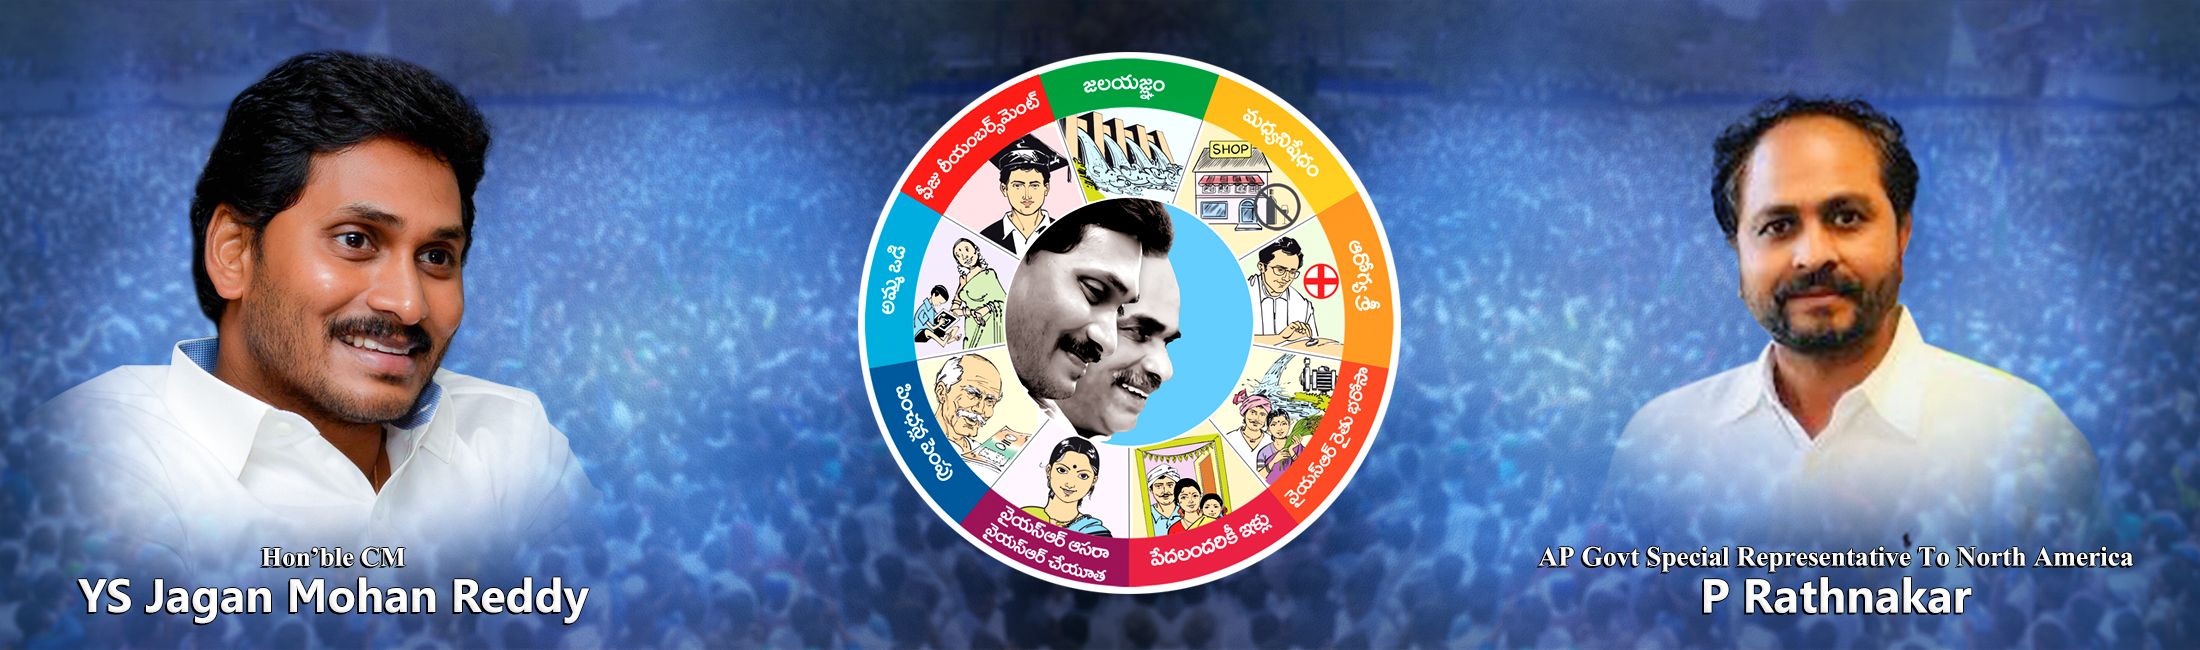
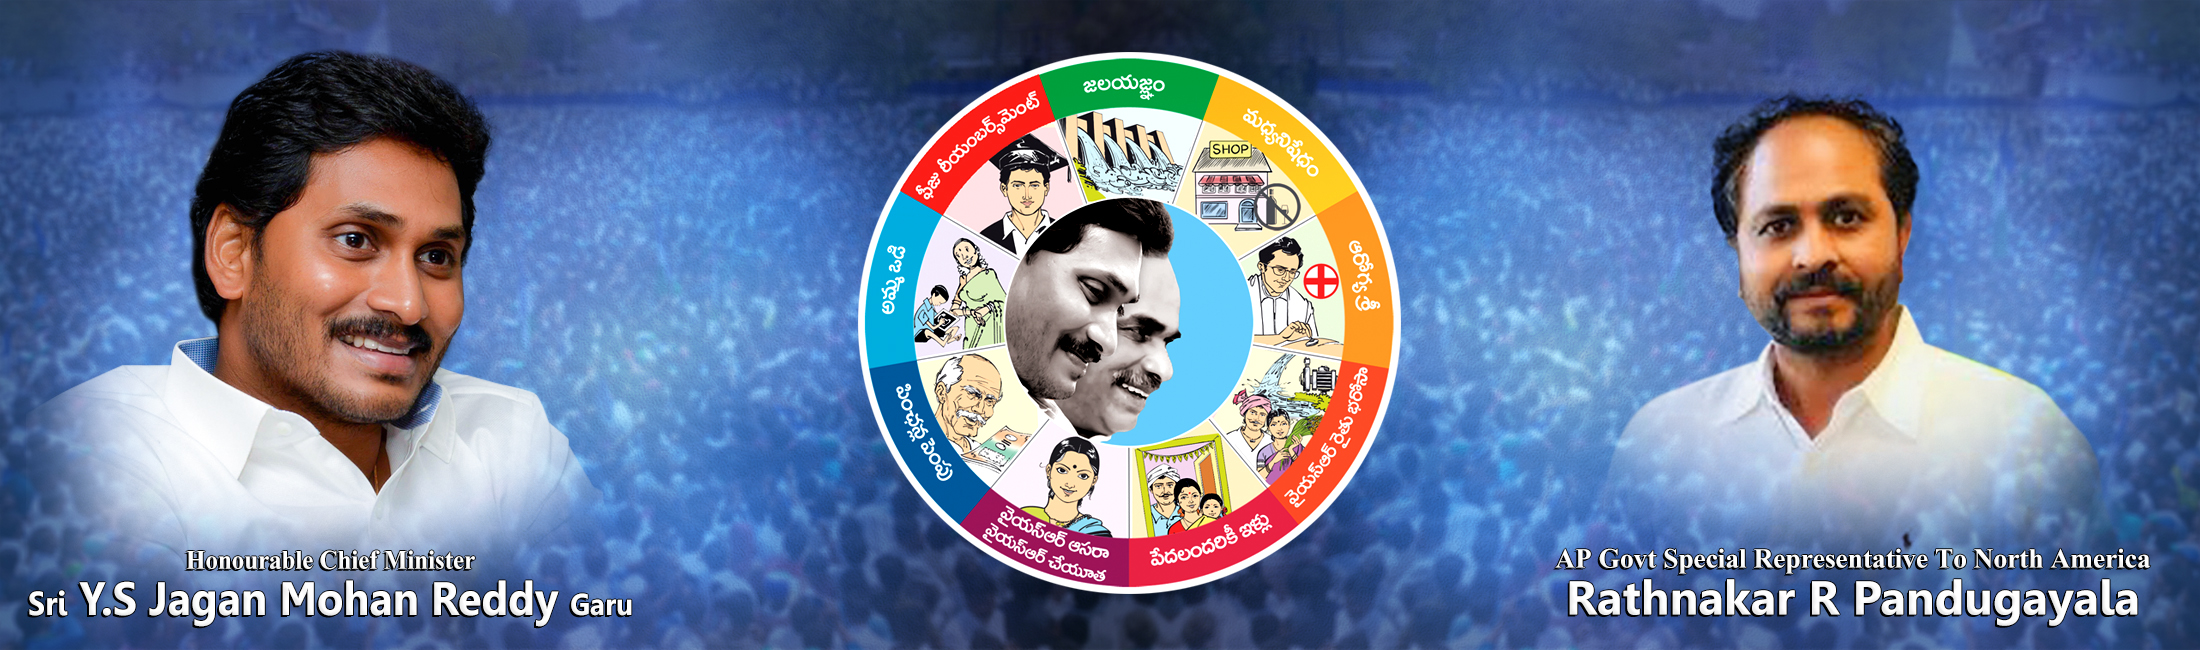
Minor changes

Changed region(s): [[0.68, 0.8308, 0.9891, 0.9846], [0.0, 0.8308, 0.3091, 0.9538]]

diff --git a/index.html b/index.html
@@ -56,6 +56,7 @@
         overflow: auto;
       }
     }
+    .view{height:106px !important;}
   </style>
 </head>
 
@@ -73,8 +74,8 @@
               <a href="#"><i class="fa fa-skype"></i></a>
             </div>
             <div class="col-lg-6 topright">
-              <a href="#"><i class="fa fa-phone"> <span>(232) 235 23 55</span></i></a>
-              <a href="#"><i class="fa fa-envelope last"> <span> example@example.com</span></i></a>
+              <a href="#"><i class="fa fa-phone"> <span>+18607784210</span></i></a>
+              <a href="#"><i class="fa fa-envelope last"> <span> Kadapa.Rathnakar@gmail.com</span></i></a>
             </div>
           </div>
         </div>
@@ -212,7 +213,9 @@
     <div class="main-boxes">
       <div class="one-box1">
         <div class="one-box1-inner">
-          <h3>నవరత్నాలు గురించి మరింత సమాచారం కోసం <a href="#">Click Here</a> </h3>
+          <h3>నవరత్నాలు గురించి మరింత సమాచారం కోసం <a href="#"><br>
+            Click Here
+          </a> </h3>
         </div>
       </div>
       <div class="one-box2">
@@ -461,7 +464,7 @@
             </div>
           </div>
           <div class="wrapper100percent">
-            <img src="images/blogthumb2.jpg" alt="">
+            <img src="images/blog/housing.jpg" alt="">
             <p>fih;df</p>
             <p>sd;fhs</p>
             <p>esdjdf</p>
@@ -526,13 +529,13 @@
           <div class="flickity-slider">
             <div class="col-lg-12 onelist" style="position: absolute; left: 0%;">
               <!-- <h2>Candidates</h2> -->
-              <h3>YS Jagan Cites Strong US Partnership As Key Element Of AP’s</h3>
+              <h3>Honourable chief minister. Sri Y.S Jagan Mohan Reddy garu Cites Strong US Partnership As Key Element Of AP’s</h3>
               <br>
               <p>Rob Schroder, Senior Vice President, International Affairs,
                 US Chamber of Commerce was upbeat on Andhra Pradesh’s promise of rapid economic growth and appreciated
-                Chief Minister Jagan Mohan Reddy’s impressive mandate for unlocking the expansive growth potential of
+                Honourable chief minister. Sri Y.S Jagan Mohan Reddy’s impressive mandate for unlocking the expansive growth potential of
                 Andhra Pradesh. With a strong mandate from the people of Andhra Pradesh,
-                Chief Minister Jagan Mohan Reddy will have an opportunity to usher in a era of inclusive growth, rapid
+                Honourable chief minister. Sri Y.S Jagan Mohan Reddy garu will have an opportunity to usher in a era of inclusive growth, rapid
                 development and strategic leadership for Andhra Pradesh.
               </p>
               <br>
@@ -806,15 +809,15 @@
     <div class="row">
       <div class="col-md-2">
         <figure class="view view-first">
-          <img src="images/gallery/gal1.jpg" alt="">
+          <img src="images/gallery/g1.jpg" alt="">
           <figcaption class="mask">
             <div class="maskinner">
               <a href="images/gallery/g1.jpg" class="imagepopup cboxElement">
                 <i class="fa fa-search-plus"></i>
               </a>
-              <a href="#">
+              <!-- <a href="#">
                 <i class="fa fa-external-link"></i>
-              </a>
+              </a> -->
             </div>
           </figcaption>
         </figure>
@@ -827,39 +830,39 @@
               <a href="images/gallery/g2.jpg" class="imagepopup cboxElement">
                 <i class="fa fa-search-plus"></i>
               </a>
-              <a href="#">
+              <!-- <a href="#">
                 <i class="fa fa-external-link"></i>
-              </a>
+              </a> -->
             </div>
           </figcaption>
         </figure>
       </div>
       <div class="col-md-2">
         <figure class="view view-first">
-          <img src="images/gallery/gal3.jpg" alt="">
+          <img src="images/gallery/g3.jpeg" alt="">
           <figcaption class="mask">
             <div class="maskinner">
-              <a href="images/gallery/g3.jpg" class="imagepopup cboxElement">
+              <a href="images/gallery/g3.jpeg" class="imagepopup cboxElement">
                 <i class="fa fa-search-plus"></i>
               </a>
-              <a href="#">
+              <!-- <a href="#">
                 <i class="fa fa-external-link"></i>
-              </a>
+              </a> -->
             </div>
           </figcaption>
         </figure>
       </div>
       <div class="col-md-2">
         <figure class="view view-first">
-          <img src="images/gallery/gal4.jpg" alt="">
+          <img src="images/gallery/g4.jpeg" alt="">
           <figcaption class="mask">
             <div class="maskinner">
-              <a href="images/gallery/g4.jpg" class="imagepopup cboxElement">
+              <a href="images/gallery/g4.jpeg" class="imagepopup cboxElement">
                 <i class="fa fa-search-plus"></i>
               </a>
-              <a href="#">
+              <!-- <a href="#">
                 <i class="fa fa-external-link"></i>
-              </a>
+              </a> -->
             </div>
           </figcaption>
         </figure>
@@ -872,24 +875,24 @@
               <a href="images/gallery/g5.jpg" class="imagepopup cboxElement">
                 <i class="fa fa-search-plus"></i>
               </a>
-              <a href="#l">
+              <!-- <a href="#l">
                 <i class="fa fa-external-link"></i>
-              </a>
+              </a> -->
             </div>
           </figcaption>
         </figure>
       </div>
       <div class="col-md-2">
         <figure class="view view-first">
-          <img src="images/gallery/gal6.jpg" alt="">
+          <img src="images/gallery/g6.jpeg" alt="">
           <figcaption class="mask">
             <div class="maskinner">
-              <a href="images/gallery/g6.jpg" class="imagepopup cboxElement">
+              <a href="images/gallery/g6.jpeg" class="imagepopup cboxElement">
                 <i class="fa fa-search-plus"></i>
               </a>
-              <a href="#">
+              <!-- <a href="#">
                 <i class="fa fa-external-link"></i>
-              </a>
+              </a> -->
             </div>
           </figcaption>
         </figure>
@@ -906,39 +909,39 @@
               <a href="images/gallery/g7.jpg" class="imagepopup cboxElement">
                 <i class="fa fa-search-plus"></i>
               </a>
-              <a href="#">
+              <!-- <a href="#">
                 <i class="fa fa-external-link"></i>
-              </a>
+              </a> -->
             </div>
           </figcaption>
         </figure>
       </div>
       <div class="col-md-2">
         <figure class="view view-first">
-          <img src="images/gallery/gal8.jpg" alt="">
+          <img src="images/gallery/g11.jpeg" alt="">
           <figcaption class="mask">
             <div class="maskinner">
-              <a href="images/gallery/g8.jpg" class="imagepopup cboxElement">
+              <a href="images/gallery/g11.jpeg" class="imagepopup cboxElement">
                 <i class="fa fa-search-plus"></i>
               </a>
-              <a href="#">
+              <!-- <a href="#">
                 <i class="fa fa-external-link"></i>
-              </a>
+              </a> -->
             </div>
           </figcaption>
         </figure>
       </div>
       <div class="col-md-2">
         <figure class=" view view-first">
-          <img src="images/gallery/gal9.jpg" alt="">
+          <img src="images/gallery/g8.jpg" alt="">
           <figcaption class="mask">
             <div class="maskinner">
-              <a href="images/gallery/g9.jpg" class="imagepopup cboxElement">
+              <a href="images/gallery/g8.jpg" class="imagepopup cboxElement">
                 <i class="fa fa-search-plus"></i>
               </a>
-              <a href="index.html">
+              <!-- <a href="index.html">
                 <i class="fa fa-external-link"></i>
-              </a>
+              </a> -->
             </div>
           </figcaption>
         </figure>
@@ -951,24 +954,24 @@
               <a href="images/gallery/g10.jpg" class="imagepopup cboxElement">
                 <i class="fa fa-search-plus"></i>
               </a>
-              <a href="#">
+              <!-- <a href="#">
                 <i class="fa fa-external-link"></i>
-              </a>
+              </a> -->
             </div>
           </figcaption>
         </figure>
       </div>
       <div class="col-md-2">
         <figure class=" view view-first">
-          <img src="images/gallery/gal11.jpg" alt="">
+          <img src="images/gallery/g13.jpeg" alt="">
           <figcaption class="mask">
             <div class="maskinner">
-              <a href="images/gallery/g11.jpg" class="imagepopup cboxElement">
+              <a href="images/gallery/g13.jpeg" class="imagepopup cboxElement">
                 <i class="fa fa-search-plus"></i>
               </a>
-              <a href="#l">
+              <!-- <a href="#l">
                 <i class="fa fa-external-link"></i>
-              </a>
+              </a> -->
             </div>
           </figcaption>
         </figure>
@@ -981,9 +984,9 @@
               <a href="images/gallery/g12.jpg" class="imagepopup cboxElement">
                 <i class="fa fa-search-plus"></i>
               </a>
-              <a href="#">
+              <!-- <a href="#">
                 <i class="fa fa-external-link"></i>
-              </a>
+              </a> -->
             </div>
           </figcaption>
         </figure>
@@ -1029,11 +1032,11 @@
                   <div class="testimonial">
                     <img src="images/rtnkar.jpg" alt="">
                     <i class="fa fa-quote-left"></i>
-                    <h4> My sincere thanks to our C.M Sri Y.S. Jagan Mohan reddy garu, No words to express My Love on
+                    <h4> My sincere thanks to our Honourable Chief Minister. Sri Y.S Jagan Mohan Reddy garu, No words to express My Love on
                       you ,No matter what, Till my Final Breath I wil be your Supporter and I'm proud of it! Once Again
                       ...
                     </h4>
-                    <h6> Rathnakar Pandugayala, &nbsp; Andhra Pradesh Government special representative to North America
+                    <h6> Rathnakar R Pandugayala, &nbsp; Andhra Pradesh Government special representative to North America
                     </h6>
                   </div>
                 </div>
@@ -1159,9 +1162,7 @@
         <div class="col-md-4">
           <h5>about</h5>
           <p>
-            Government of Andhra Pradesh is the government for the Indian state of Andhra Pradesh.
-            It is an elected government with 175 MLAs elected to the legislative assembly for a 5-year term Government
-            of Andhra Pradesh is a democratically elected body that governs the State of Andhra Pradesh, India.
+            Ardent follower of our great leaders Dr. Y.S.Rajasekhar Reddy garu & our Honourable chief minister. Sri Y.S.Jagan Mohan Reddy garu
           </p>
           <h5>more</h5>
           <ul>
@@ -1173,33 +1174,27 @@
               <a href="http://ipr.ap.nic.in/">Information and public Relations Department <i
                   class="fa fa-angle-right"></i></a>
             </li>
-            <li>
-              <!-- <a href="index.html">Aperiam accusamus vel eu <i class="fa fa-angle-right"></i></a> -->
-            </li>
           </ul>
         </div>
         <div class="col-md-4">
           <h5>CONTACT INFO</h5>
           <ul>
             <li>
-              Address: Andhra Pradesh Secretariat
+              Address: 23 Highpoint Commons, Marlborough, CT-06447
             </li>
             <li>
-              Penumaka - Amaravathi Rd, 4th Block, Velagapudi, Andhra Pradesh 522503
+                United States of America
             </li>
             <li>
-              <!-- <a href="mailto:name@email.com">email: example@example.com</a> -->
+              email: Kadapa.Rathnakar@gmail.com
             </li>
           </ul>
-          <h5>Open Hours</h5>
+          <!-- <h5>Open Hours</h5>
           <ul>
             <li>
               Full Day
             </li>
-            <!-- <li>
-            Saturday and Sunday: Off 
-            </li> -->
-          </ul> <br>
+          </ul> <br> -->
         </div>
         <div class="col-md-12">
           <ul class="socialicons">
